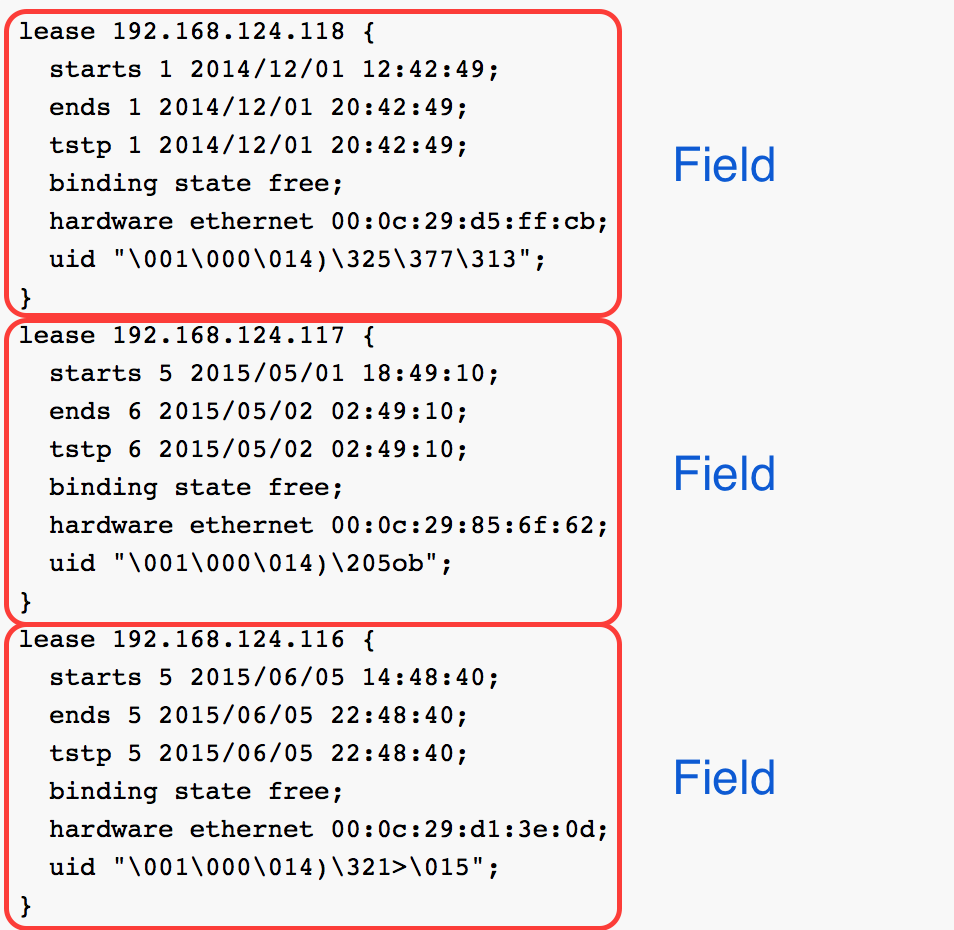
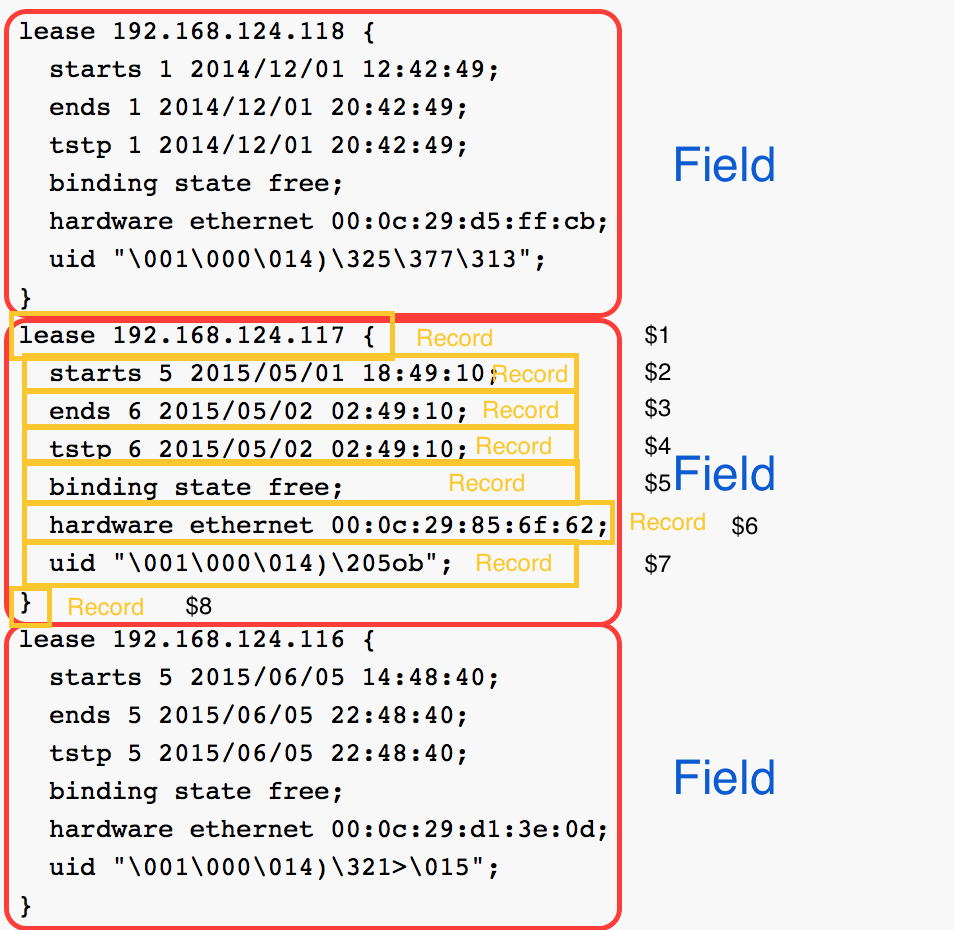
modified _posts/2017-02-01-awk-parse-large-file.md

Changed region(s): [[0.0, 0.3118, 0.7296, 0.686], [0.76, 0.5613, 0.7904, 0.5925]]

diff --git a/_posts/2017-02-01-awk-parse-large-file.md b/_posts/2017-02-01-awk-parse-large-file.md
@@ -35,7 +35,7 @@ lease 192.168.124.117 {
 }
 lease 192.168.124.116 {
   starts 5 2015/06/05 14:48:40;
-  ends 5 2015/06/05 22:48:40;
+  ends 5 2031/06/05 22:48:40;
   tstp 5 2015/06/05 22:48:40;
   binding state free;
   hardware ethernet 00:0c:29:d1:3e:0d;
@@ -43,7 +43,7 @@ lease 192.168.124.116 {
 }
 lease 192.168.123.200 {
   starts 5 2012/07/13 11:54:46;
-  ends 5 2012/07/13 11:57:42;
+  ends 5 2031/07/13 11:57:42;
   tstp 5 2012/07/13 11:57:42;
   binding state free;
   hardware ethernet 88:c6:63:c6:08:52;
@@ -60,8 +60,8 @@ If we use awk, we can come up a command like this:
 ```
 awk 'BEGIN{RS = "}";FS = "\n";}
 {
-    split($3, start, " ");
-    split($4, end, " ");
+    split($2, start, " ");
+    split($3, end, " ");
     if (start[1] == "starts" && end[1] == "ends")
         {
             cmd="date +%Y%m%d%H%M%S";
@@ -84,7 +84,7 @@ awk 'BEGIN{RS = "}";FS = "\n";}
                     if (second == "ethernet") {
                         third=lineArray[3];
                         gsub(/\;/,"",third);
-                        split($2, lease, " ");
+                        split($1, lease, " ");
                         print lease[2], third;
                     }
                 }
@@ -103,8 +103,29 @@ awk 'BEGIN{...} {...} END{...}' input-file1
 
 BEGIN block is executed once only, before the first input record is read. Likewise, END block is executed once only, after all the input is read.
 
-In our example, we use BEGIN block only. BEGIN block can have multiple input builtin parameters. Because we are using RS and FS, we will explain how these two works. 
+In our example, we use BEGIN block only. BEGIN block can have multiple input builtin parameters. Because we are using RS and FS, we will explain how these two works. In this example, we choose RS as "}", which means the fields of this file are separated as below, in red blocks. FS is chosen as "\n" (newline), which means for each field it can be further separated by each line as records, in yellow blocks.
 
 ![awk RF]({{ site.url }}/images/dhcpd.leases_sample.png)
 
+The variables in each record is stored as a variable starting with "$" sign, so the 
 
+```
+lease 192.168.124.118 {
+```
+is $1, and 
+
+```
+starts 1 2014/12/01 12:42:49;
+```
+is $2, etc. By splitting each the file to fields/records, we are able to add additional logic to the awk code, to see if the current time is between the start and end time of the lease when it's validated.
+
+Finally, key word NF is used to record how many rows are in one field. In this case, for each field we have 8 rows and as such we scan from the end of field to get the Mac Address after key word ethernet. 
+
+The final output after using the awk command to parse dhcpd file is (note the time when parsing this file is in 2017):
+
+```
+192.168.124.116 00:0c:29:d1:3e:0d
+192.168.123.200 88:c6:63:c6:08:52
+```
+
+Thanks for reading!
